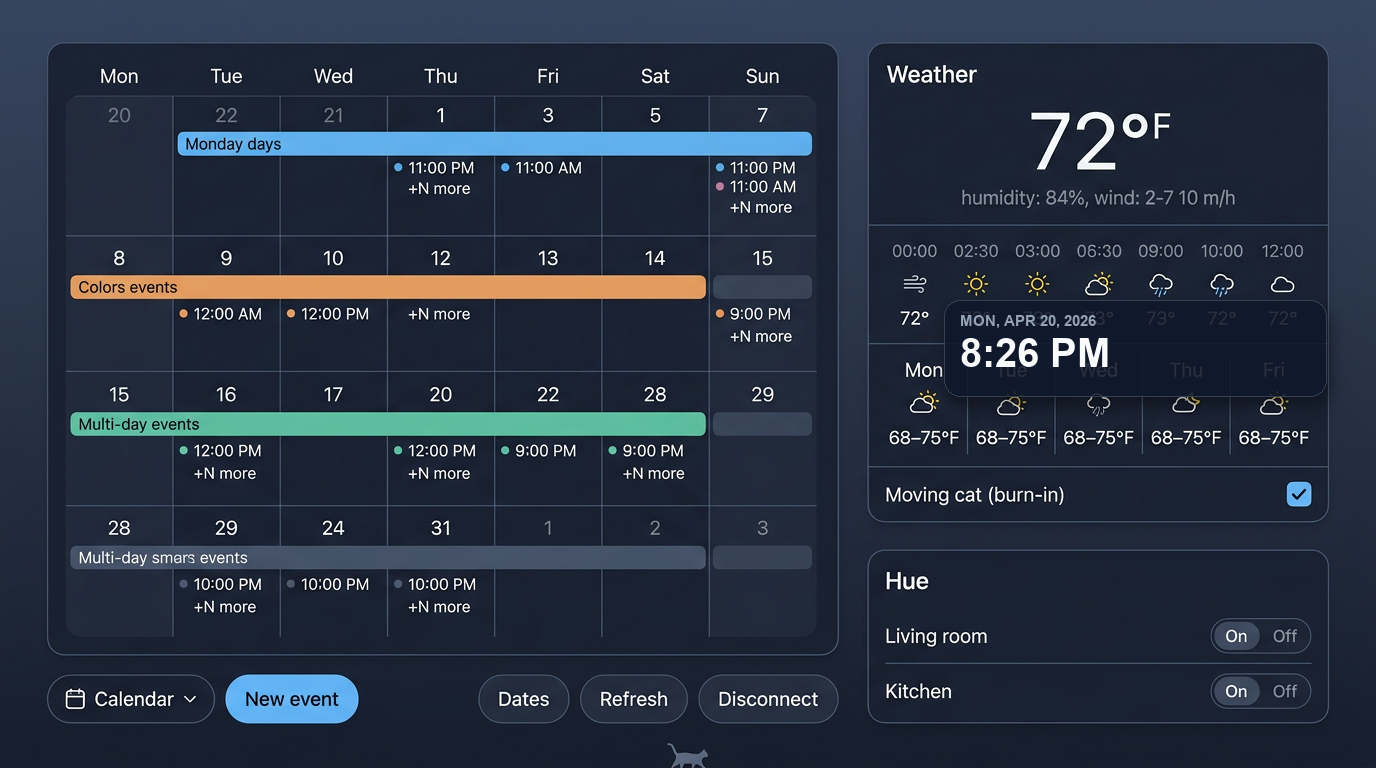
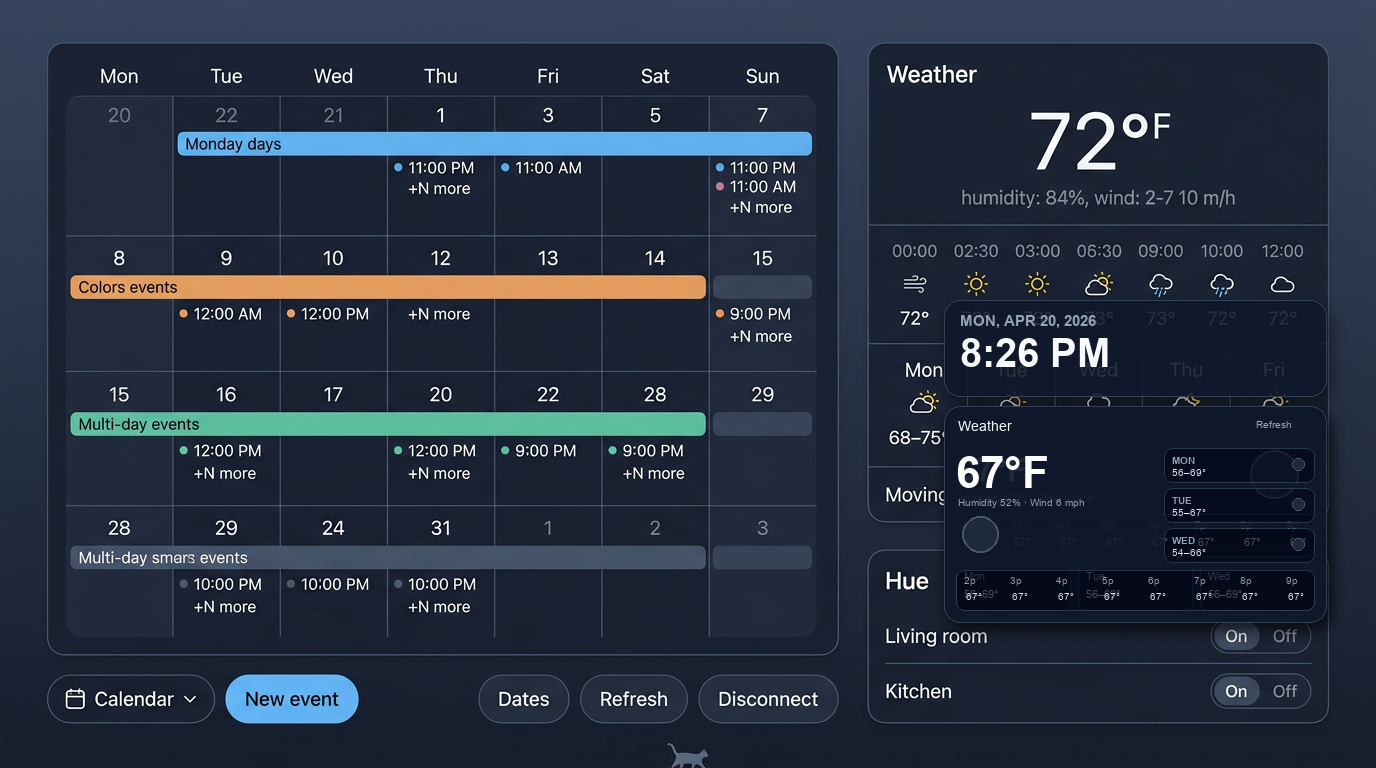
Refactor Board component by removing BurnInCat state and related logic. Update weather display layout for improved responsiveness and visual clarity. Replace temperature and humidity display styles for better alignment.

Changed region(s): [[0.6875, 0.5312, 0.9688, 0.8438]]

diff --git a/src/components/Board.tsx b/src/components/Board.tsx
@@ -199,7 +199,6 @@ export function Board() {
   const [calendars, setCalendars] = useState<CalendarOption[]>([]);
   const [selectedCalendarId, setSelectedCalendarId] = useState("primary");
 
-  const [burnInCat, setBurnInCat] = useState(true);
   const [clockNow, setClockNow] = useState(() => new Date());
   const [collapsedWidgets, setCollapsedWidgets] = useState<
     Record<RightWidgetKey, boolean>
@@ -225,27 +224,6 @@ export function Board() {
     const id = window.setInterval(() => setClockNow(new Date()), 1000);
     return () => window.clearInterval(id);
   }, []);
-
-  useEffect(() => {
-    queueMicrotask(() => {
-      try {
-        const v = localStorage.getItem("familyboard_burnin_cat");
-        if (v === "0") setBurnInCat(false);
-        else if (v === "1") setBurnInCat(true);
-      } catch {
-        /* ignore */
-      }
-    });
-  }, []);
-
-  function setBurnInCatEnabled(next: boolean) {
-    setBurnInCat(next);
-    try {
-      localStorage.setItem("familyboard_burnin_cat", next ? "1" : "0");
-    } catch {
-      /* ignore */
-    }
-  }
 
   function toggleWidgetCollapse(key: RightWidgetKey) {
     setCollapsedWidgets((prev) => ({ ...prev, [key]: !prev[key] }));
@@ -950,25 +928,50 @@ export function Board() {
                   .
                 </p>
               ) : current ? (
-                <div className="mt-3 space-y-3">
-                  <div className="flex items-end justify-between gap-2">
-                    <p className="text-5xl font-semibold leading-none text-white sm:text-6xl">
-                      {Math.round(current.temperatureF ?? 0)}°
-                      <span className="text-xl text-slate-400 sm:text-2xl">F</span>
-                    </p>
-                    <WeatherIcon
-                      code={Number(current.code ?? 0)}
-                      className="h-16 w-16 sm:h-[4.5rem] sm:w-[4.5rem]"
-                    />
+                <div className="mt-2 space-y-2.5">
+                  <div className="grid grid-cols-[minmax(0,1fr)_8.25rem] gap-2">
+                    <div className="min-w-0">
+                      <p className="text-4xl font-semibold leading-none text-white sm:text-5xl">
+                        {Math.round(current.temperatureF ?? 0)}°
+                        <span className="text-base text-slate-400 sm:text-lg">F</span>
+                      </p>
+                      <p className="mt-1 text-xs text-slate-500 sm:text-sm">
+                        Humidity {Math.round(current.humidity ?? 0)}% · Wind{" "}
+                        {Math.round(current.windMph ?? 0)} mph
+                      </p>
+                      <WeatherIcon
+                        code={Number(current.code ?? 0)}
+                        className="mt-2 h-10 w-10 sm:h-12 sm:w-12"
+                      />
+                    </div>
+                    {daily && daily.length > 0 ? (
+                      <div className="grid grid-cols-1 gap-1.5">
+                        {daily.slice(0, 3).map((d) => (
+                          <div
+                            key={d.date}
+                            className="flex min-w-0 items-center justify-between gap-1 rounded-lg border border-slate-800/90 bg-slate-950/50 px-2 py-1.5"
+                          >
+                            <div className="min-w-0">
+                              <p className="truncate text-[10px] font-semibold uppercase tracking-wide text-slate-400 sm:text-xs">
+                                {shortWeekdayFromForecastDate(d.date ?? "")}
+                              </p>
+                              <p className="text-[11px] font-medium text-white sm:text-xs">
+                                {Math.round(d.minF ?? 0)}–{Math.round(d.maxF ?? 0)}°
+                              </p>
+                            </div>
+                            <WeatherIcon
+                              code={Number(d.code ?? 0)}
+                              className="h-4 w-4 shrink-0 sm:h-5 sm:w-5"
+                            />
+                          </div>
+                        ))}
+                      </div>
+                    ) : null}
                   </div>
-                  <p className="text-sm text-slate-500 sm:text-base">
-                    Humidity {Math.round(current.humidity ?? 0)}% · Wind{" "}
-                    {Math.round(current.windMph ?? 0)} mph
-                  </p>
                   {hourlyToday && hourlyToday.length > 0 ? (
-                    <div className="rounded-lg border border-slate-800 bg-slate-950/50 px-1 py-2 sm:px-2">
-                      <div className="flex w-full flex-nowrap items-stretch justify-between gap-0.5 sm:gap-1">
-                        {hourlyToday.map((h) => {
+                    <div className="rounded-lg border border-slate-800 bg-slate-950/50 px-1 py-1.5 sm:px-2">
+                      <div className="flex w-full flex-nowrap items-stretch justify-between gap-0.5">
+                        {hourlyToday.slice(0, 8).map((h) => {
                           const d = new Date(h.time ?? "");
                           const label = Number.isNaN(d.getTime())
                             ? (h.time ?? "").slice(11, 16)
@@ -978,14 +981,14 @@ export function Board() {
                               key={h.time}
                               className="flex min-w-0 flex-1 flex-col items-center gap-0.5 text-center"
                             >
-                              <span className="w-full truncate text-[10px] leading-tight text-slate-400 sm:text-xs">
+                              <span className="w-full truncate text-[10px] leading-tight text-slate-400">
                                 {label}
                               </span>
                               <WeatherIcon
                                 code={Number(h.code ?? 0)}
-                                className="h-4 w-4 shrink-0 sm:h-5 sm:w-5"
+                                className="h-4 w-4 shrink-0"
                               />
-                              <span className="w-full truncate text-[10px] font-medium leading-tight text-slate-200 sm:text-xs">
+                              <span className="w-full truncate text-[10px] font-medium leading-tight text-slate-200">
                                 {Math.round(h.temperatureF ?? 0)}°
                               </span>
                             </div>
@@ -994,41 +997,6 @@ export function Board() {
                       </div>
                     </div>
                   ) : null}
-                  {daily && daily.length > 0 ? (
-                    <div className="mt-3 border-t border-slate-800 pt-3">
-                      <div className="flex flex-wrap items-stretch justify-between gap-2 sm:flex-nowrap">
-                        {daily.slice(0, 5).map((d) => (
-                          <div
-                            key={d.date}
-                            className="flex min-w-[4.5rem] flex-1 flex-col items-center gap-1.5 rounded-lg border border-slate-800/90 bg-slate-950/50 py-2.5 sm:min-w-0 sm:py-3"
-                          >
-                            <span className="text-sm font-semibold uppercase tracking-wide text-slate-400 sm:text-base">
-                              {shortWeekdayFromForecastDate(d.date ?? "")}
-                            </span>
-                            <WeatherIcon
-                              code={Number(d.code ?? 0)}
-                              className="h-9 w-9 sm:h-11 sm:w-11"
-                            />
-                            <span className="text-base font-medium text-white sm:text-lg">
-                              {Math.round(d.minF ?? 0)}–{Math.round(d.maxF ?? 0)}°F
-                            </span>
-                          </div>
-                        ))}
-                      </div>
-                    </div>
-                  ) : null}
-                  <label className="flex cursor-pointer items-center justify-between gap-3 rounded-lg border border-slate-800 bg-slate-950/40 px-3 py-2.5">
-                    <span className="text-sm text-slate-400 sm:text-base">
-                      Neko (follows mouse, burn-in)
-                    </span>
-                    <input
-                      type="checkbox"
-                      className="h-5 w-5 shrink-0 rounded border-slate-600 bg-slate-900 accent-sky-500"
-                      checked={burnInCat}
-                      onChange={(e) => setBurnInCatEnabled(e.target.checked)}
-                      aria-label="Toggle classic Neko cat that follows the pointer"
-                    />
-                  </label>
                 </div>
               ) : (
                 <p className="mt-3 text-base text-slate-400 sm:text-lg">Loading weather…</p>
@@ -1455,7 +1423,7 @@ export function Board() {
         </div>
       ) : null}
     </div>
-    <OnekoCat enabled={burnInCat} />
+    <OnekoCat enabled />
     </>
   );
 }
